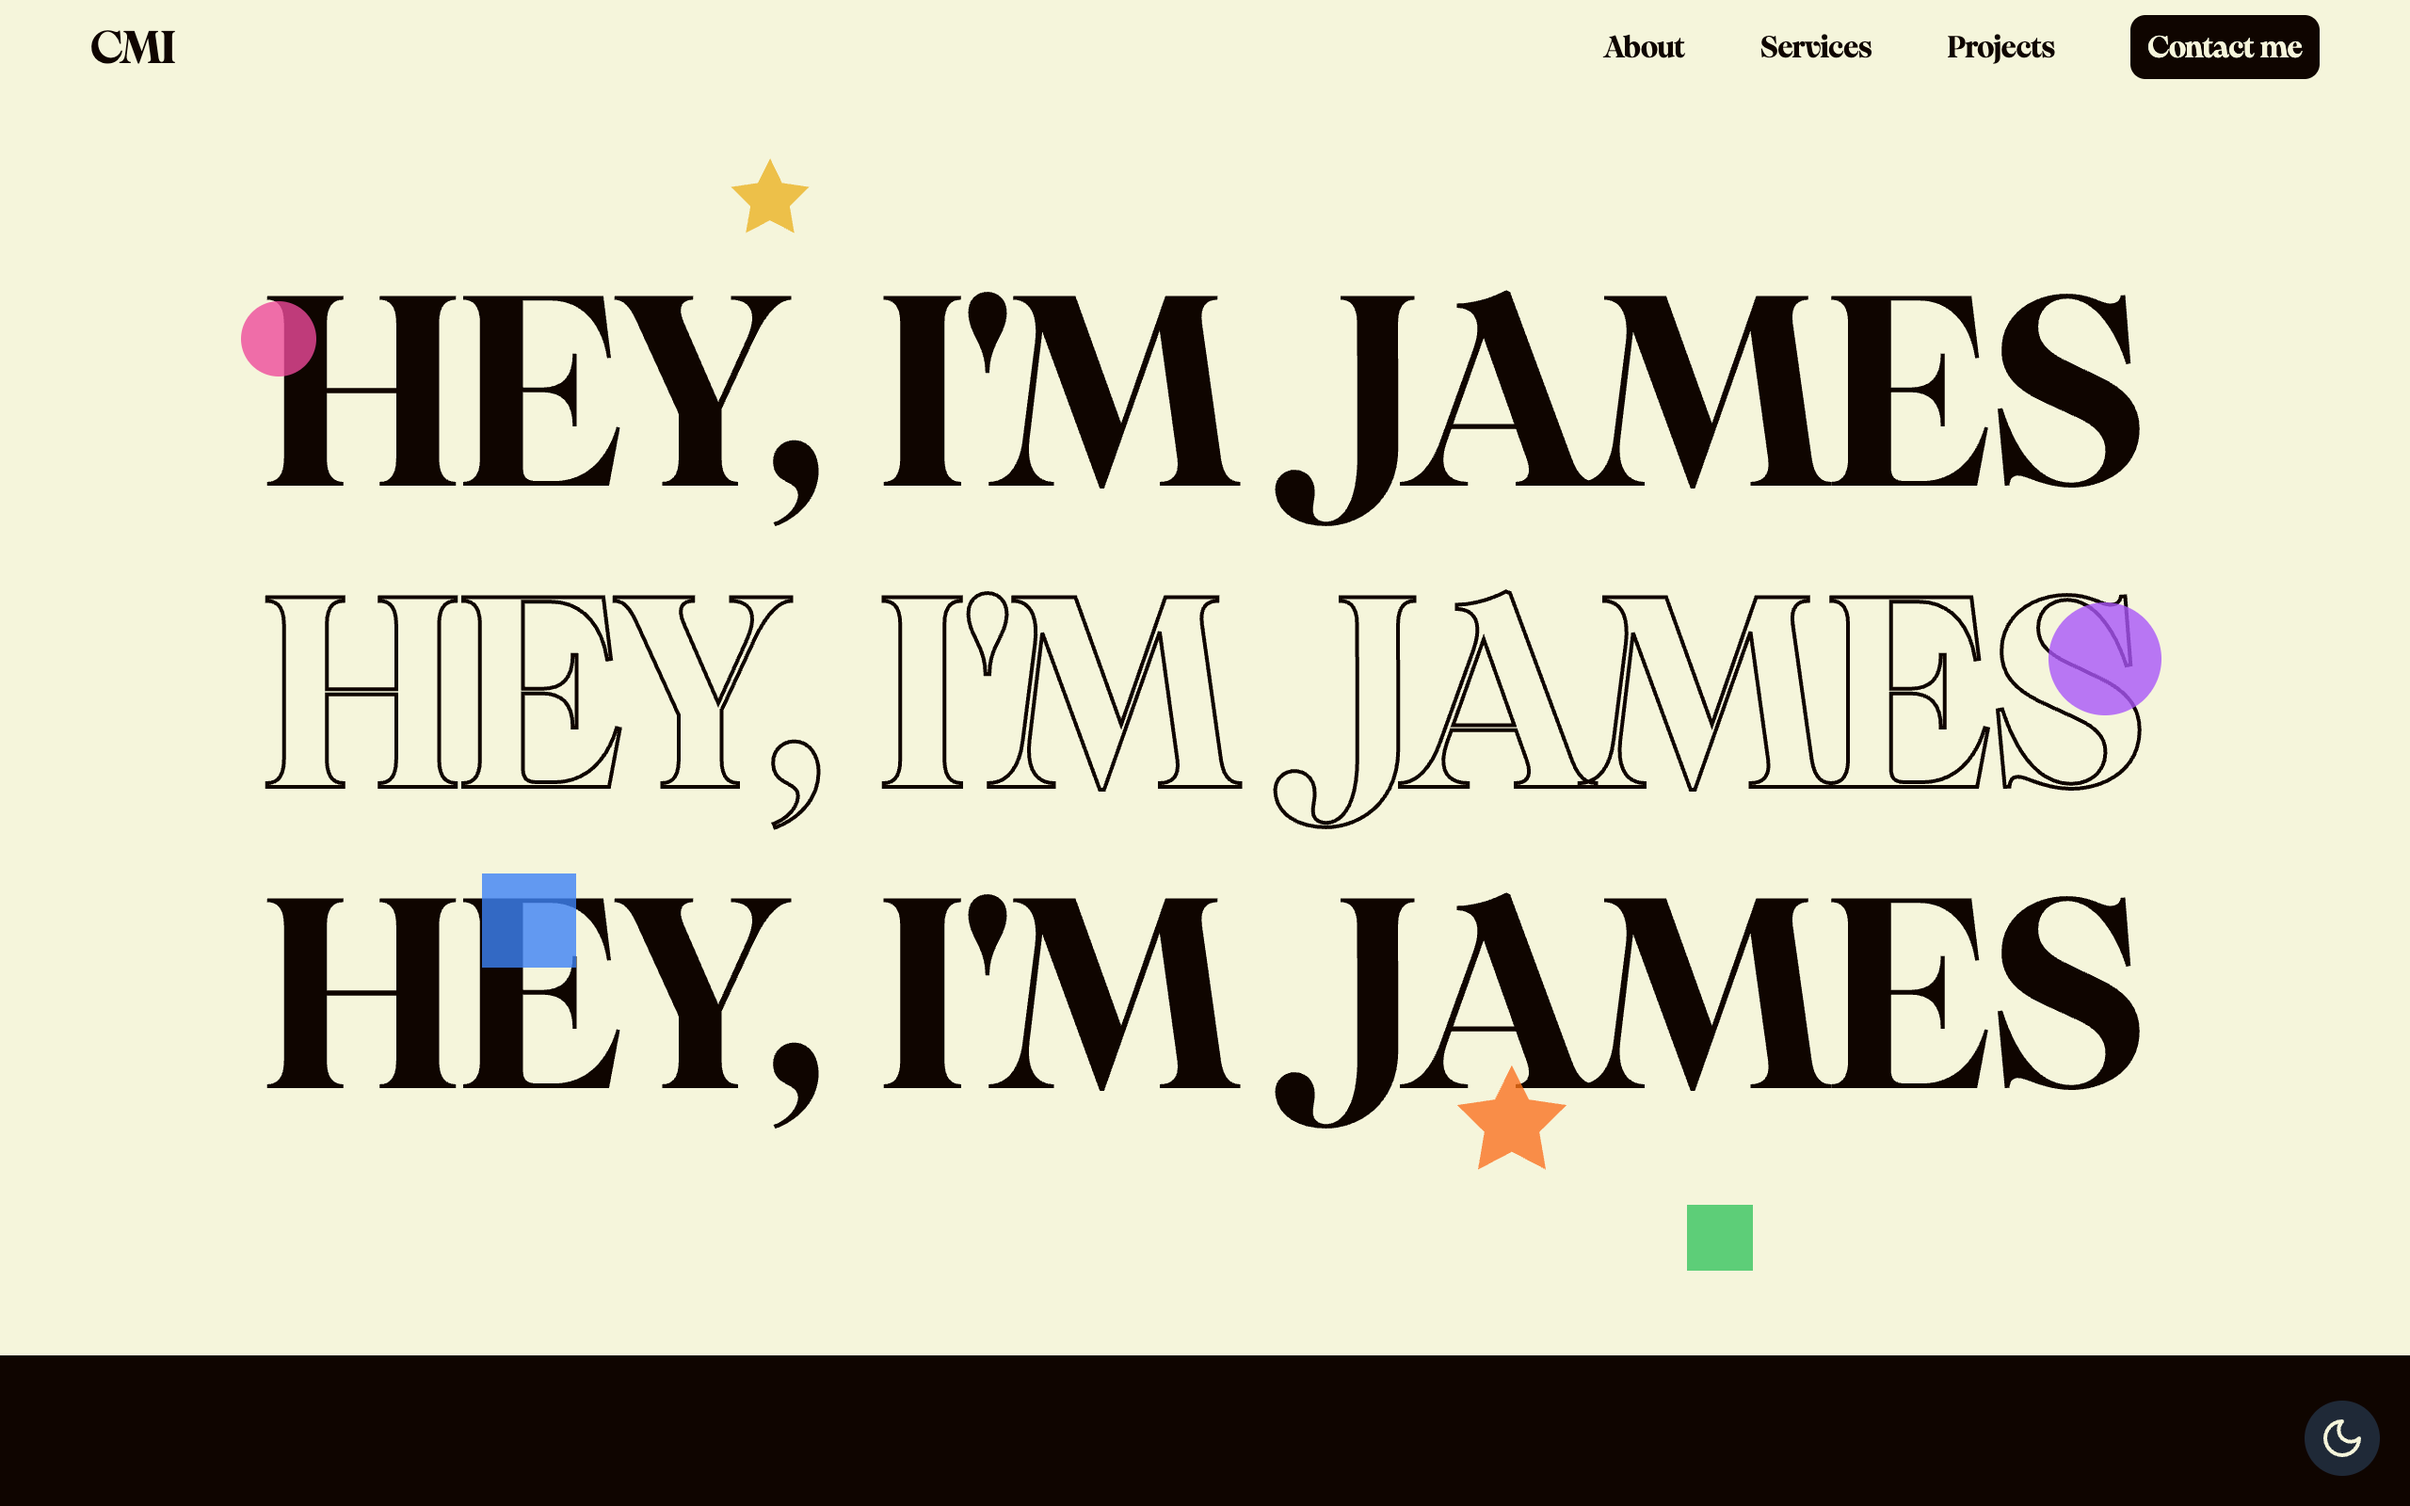
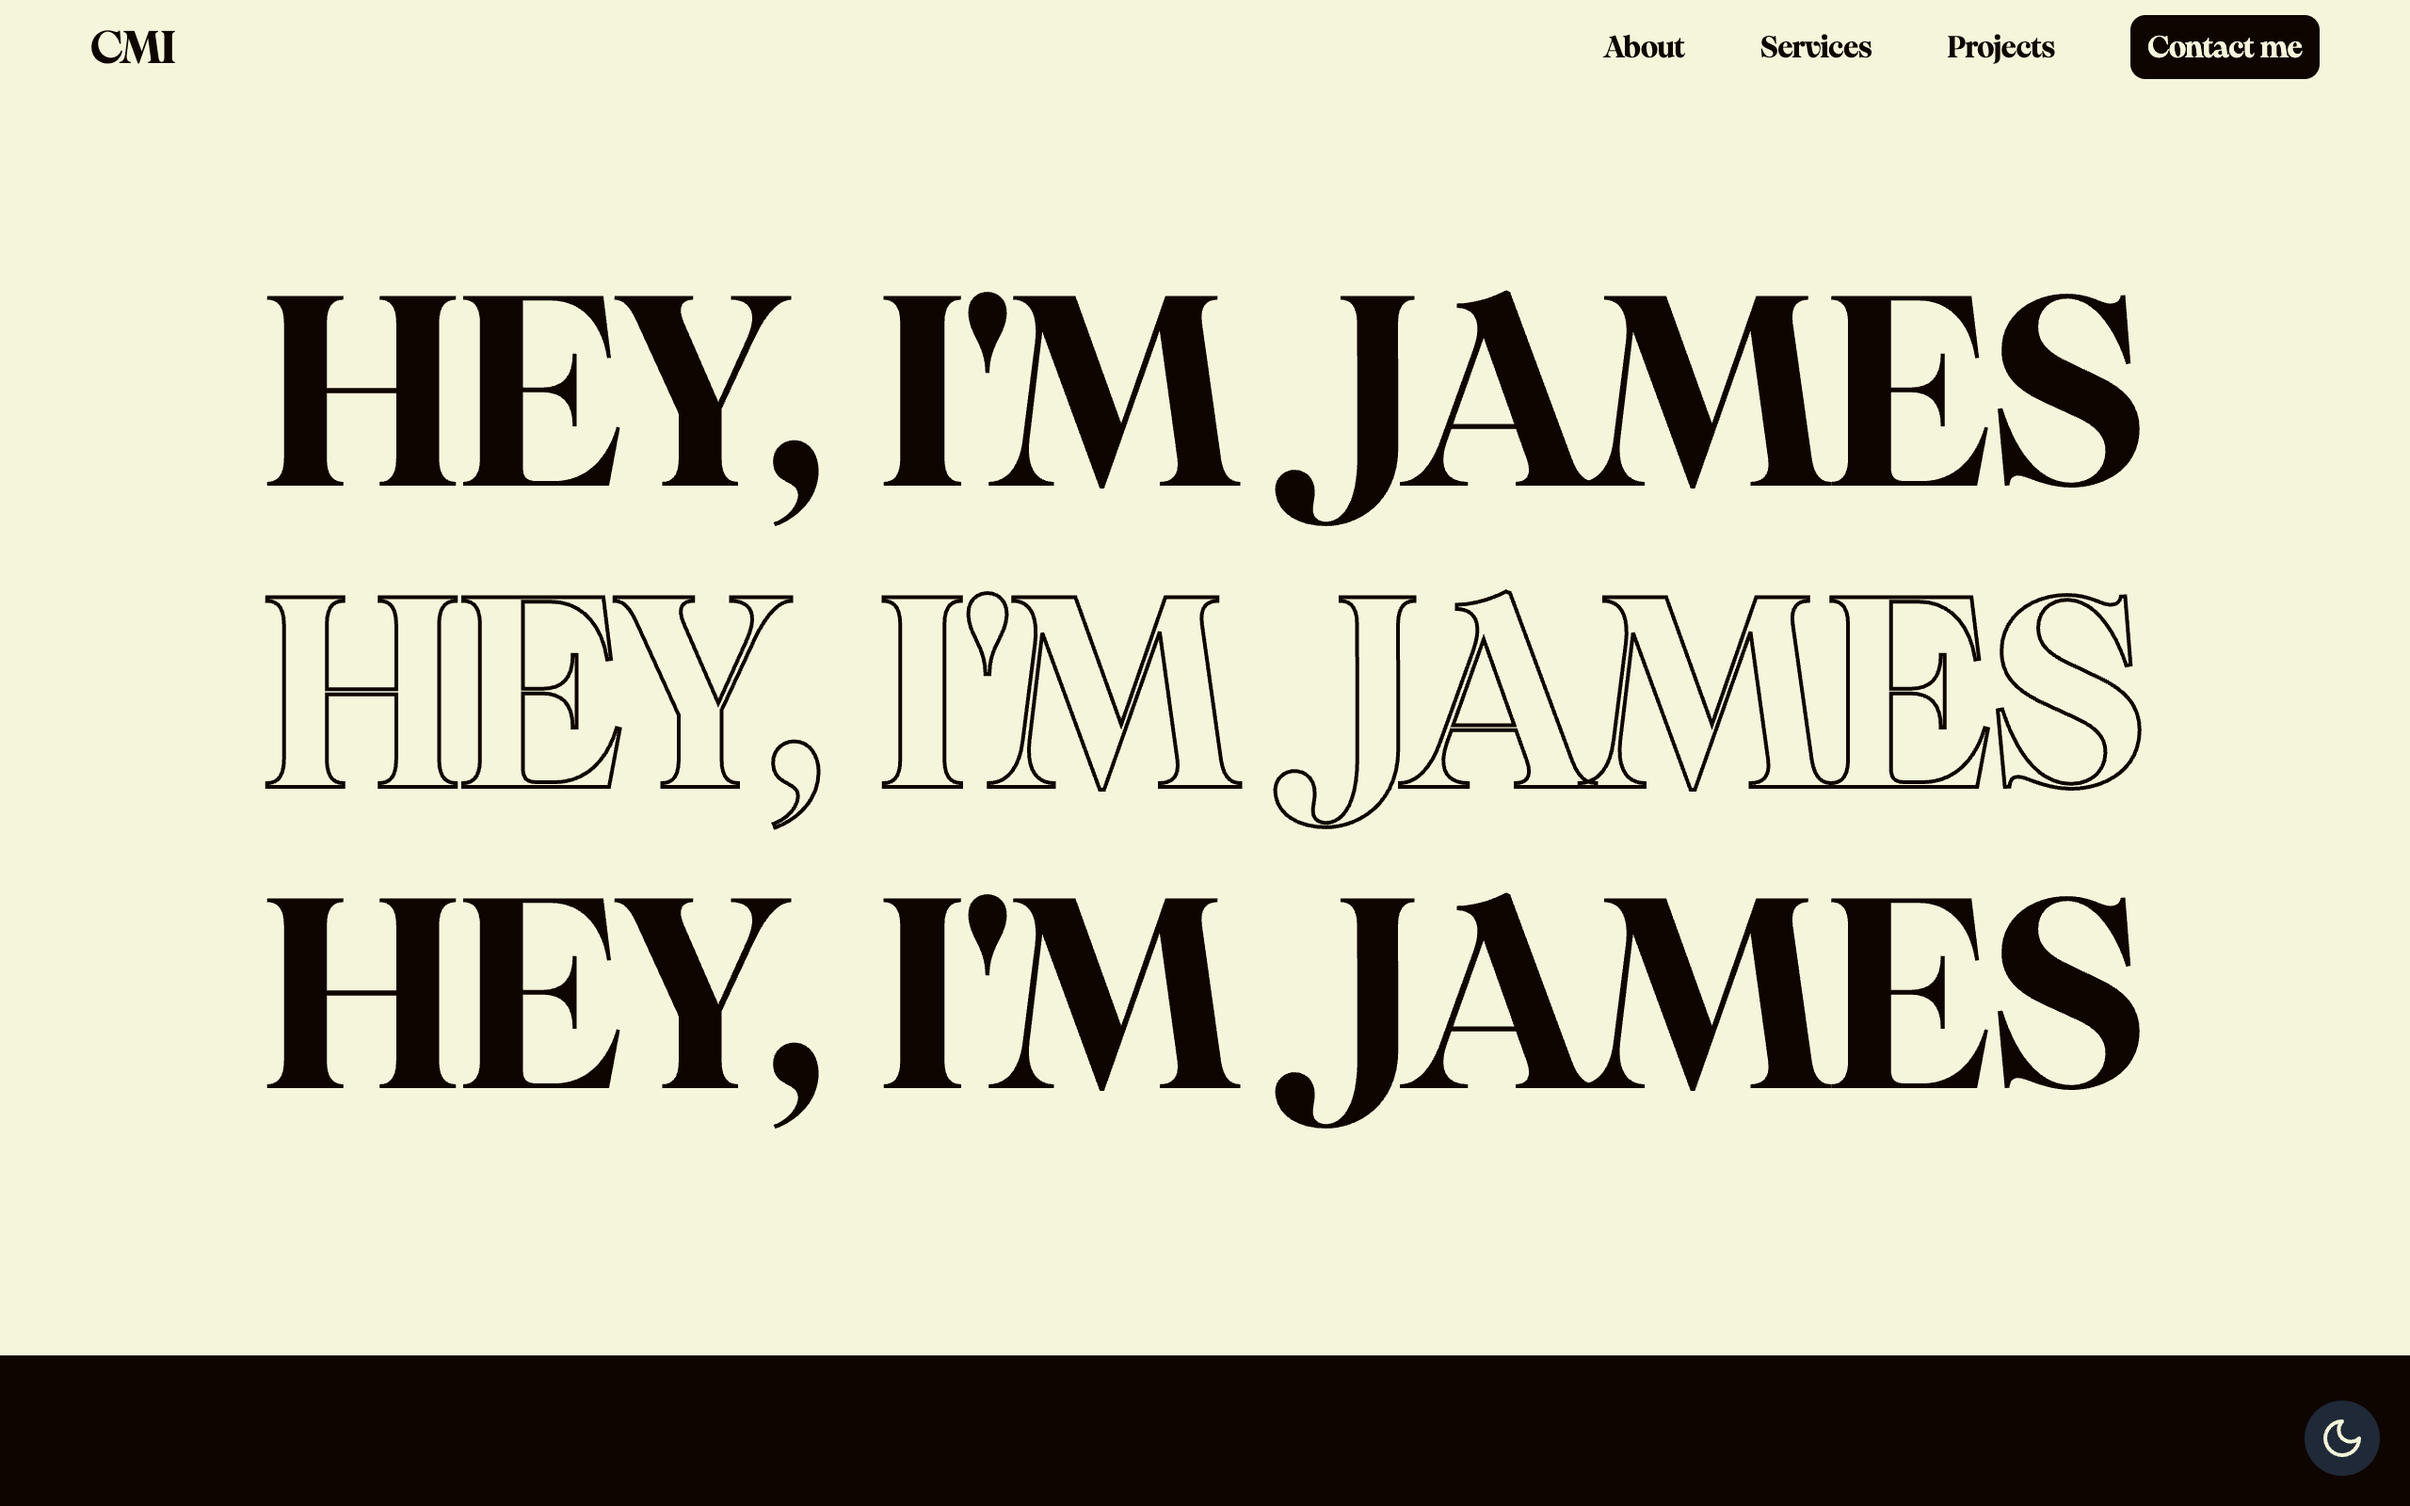
feat: added metadata

diff --git a/src/pages/_app.js b/src/pages/_app.js
@@ -17,15 +17,15 @@ function MyApp({ Component, pageProps }) {
           <Layout>
             <Head>
               <title>
-                Ilonze Chibuikem | Software Engineer & Web Developer
+                Ilonze Chibuikem | Electronics Engineer & Software Developer
               </title>
               <meta
                 name="description"
-                content="I'm Ilonze Chibuikem, a Software Engineer specializing in building modern, performant, and scalable web applications."
+                content="I'm Ilonze Chibuikem, an Electronics & Computer Engineering graduate and Software Developer specializing in embedded systems, web applications, and scalable software solutions."
               />
               <meta
                 name="keywords"
-                content="Ilonze Chibuikem, Software Engineer, Web Developer, Frontend Developer, JavaScript, React, Next.js, Tailwind CSS"
+                content="Ilonze Chibuikem, Electronics Engineer, Software Developer, Web Developer, Frontend Developer, Embedded Systems, IoT, JavaScript, React, Next.js, Tailwind CSS"
               />
               <meta name="author" content="Ilonze Chibuikem" />
               <meta name="robots" content="index, follow" />
@@ -33,13 +33,16 @@ function MyApp({ Component, pageProps }) {
               {/* Open Graph Meta Tags (for LinkedIn, Facebook, etc.) */}
               <meta
                 property="og:title"
-                content="Ilonze Chibuikem | Software Engineer & Web Developer"
+                content="Ilonze Chibuikem | Electronics Engineer & Software Developer"
               />
               <meta
                 property="og:description"
-                content="Building modern and scalable web applications with React, Next.js, and Tailwind CSS."
+                content="Electronics & Software Engineer skilled in embedded systems, web applications, and modern technologies like React, Next.js, and Tailwind CSS."
               />
-              <meta property="og:image" content="/images/portfolio-preview.png" />
+              <meta
+                property="og:image"
+                content="/images/portfolio-preview.png"
+              />
               <meta property="og:url" content="https://cmi-james.vercel.app/" />
               <meta property="og:type" content="website" />
 
@@ -47,13 +50,16 @@ function MyApp({ Component, pageProps }) {
               <meta name="twitter:card" content="summary_large_image" />
               <meta
                 name="twitter:title"
-                content="Ilonze Chibuikem | Software Engineer & Web Developer"
+                content="Ilonze Chibuikem | Electronics Engineer & Software Developer"
               />
               <meta
                 name="twitter:description"
-                content="Building modern and scalable web applications with React, Next.js, and Tailwind CSS."
+                content="Electronics & Software Engineer skilled in embedded systems, web applications, and modern technologies like React, Next.js, and Tailwind CSS."
               />
-              <meta name="twitter:image" content="/images/portfolio-preview.png" />
+              <meta
+                name="twitter:image"
+                content="/images/portfolio-preview.png"
+              />
             </Head>
             <Component {...pageProps} />
           </Layout>

diff --git a/src/pages/index.jsx b/src/pages/index.jsx
@@ -14,8 +14,7 @@ const Home = () => {
   return (
     <Transition>
       <motion.div className={`min-h-screen relative`}>
-        {/* Add the FloatingElements component at the top level */}
-        <FloatingElements />
+    
 
         <Hero />
         <Description />
